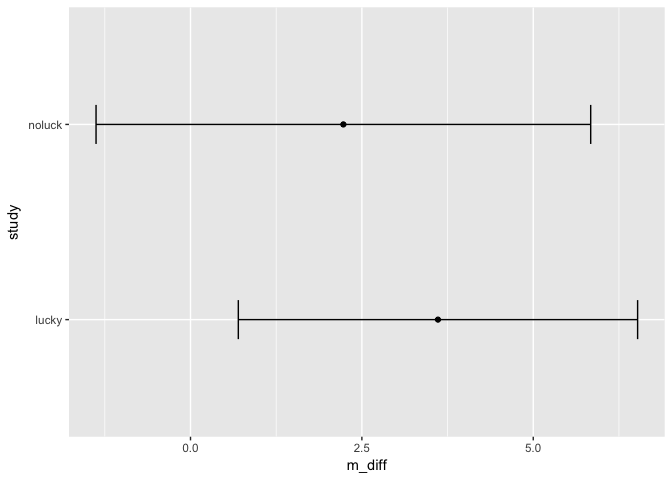
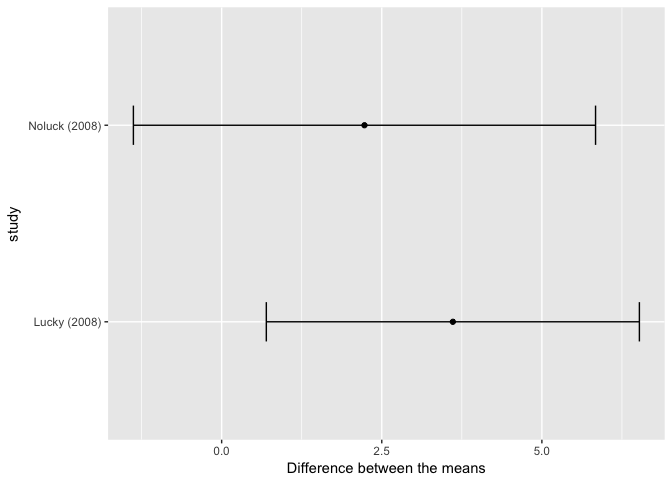
Tweak formatting

diff --git a/p-lt-005.md b/p-lt-005.md
@@ -1,7 +1,7 @@
 p-lt-005
 ================
 Rick Gilmore & Brad Wyble
-2017-08-29 11:10:30
+2017-08-29 11:12:34
 
 Readings
 --------
@@ -417,7 +417,7 @@ right_noluck <- m_diff_noluck + error_noluck
 df <- data.frame(m_diff = c(m_diff_lucky, m_diff_noluck),
                  left_ci = c(left_lucky, left_noluck),
                  right_ci = c(right_lucky, right_noluck),
-                 study = c("lucky", "noluck"))
+                 study = c("Lucky (2008)", "Noluck (2008)"))
 
 library(tidyverse)
 ```
@@ -438,7 +438,8 @@ library(tidyverse)
 df %>% ggplot() +
   aes(m_diff, study) +
   geom_point() +
-  geom_errorbarh(aes(xmax = right_ci, xmin = left_ci), height=.2)
+  geom_errorbarh(aes(xmax = right_ci, xmin = left_ci), height=.2) +
+  xlab("Difference between the means")
 ```
 
 ![](p-lt-005_files/figure-markdown_github-ascii_identifiers/cummings-fig-1.1-1.png)
@@ -476,7 +477,8 @@ df_meta %>% ggplot() +
   geom_point() +
   geom_errorbarh(aes(xmax = right_ci, xmin = left_ci), height=.2) +
   ggtitle("Results of meta-analysis on Lucky (2008) and Noluck (2008)") +
-  xlim(-1,7)
+  xlim(-1,7) +
+  xlab("Difference between the means")
 ```
 
 ![](p-lt-005_files/figure-markdown_github-ascii_identifiers/cummings-fig-1.2-1.png)
